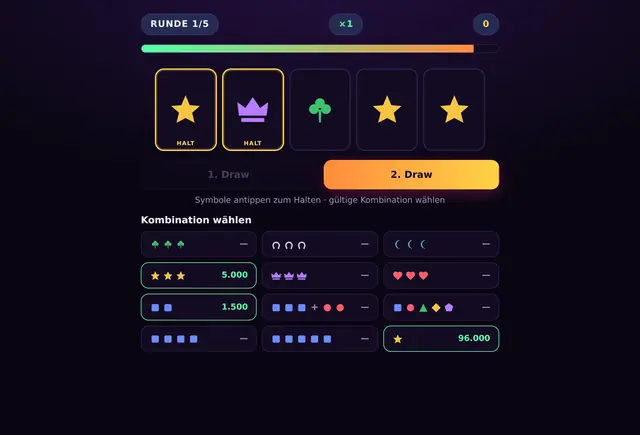
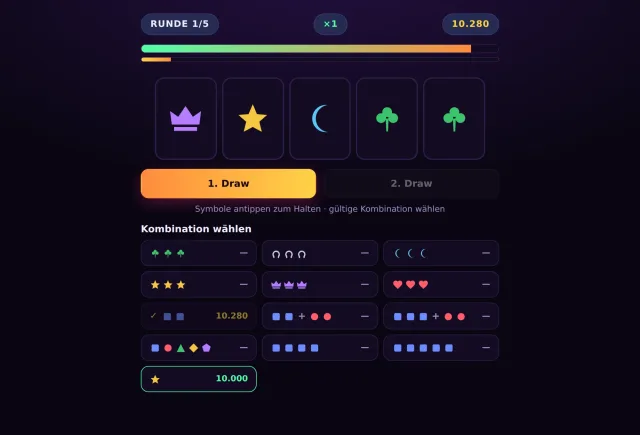
Keep: Anleitung, Bild und zwei Proben zum neuen Scoring
Das Spiel rechnet seit dem heutigen Umbau nach Seltenheit statt nach
Symbolfarbe (Einzelheiten im Commit von keep/). Was drumherum davon erzaehlt,
zog nach:

- Die Anleitung auf /spiele/ versprach das Sechzigfache fuer fuenf Herzen und
  einen Multiplikator bis zum Fuenffachen. Beides gibt es nicht mehr; statt
  dessen stehen dort die Glut und die Zusage, dass die Farbe nur einen kleinen
  Zuschlag gibt.
- Das Kachelbild zeigte die alte Punktetafel. aufnehmen.mjs wertet fuer Keep
  jetzt eine Kombination, bevor es abdrueckt - sonst steht der Glutbalken auf
  null und das Bild zeigt genau die Mechanik nicht, um die sich das Spiel
  dreht.
- pruefe-keep-punkte.mjs rechnet die Tafel ohne Dienst nach: jeder Grundwert
  mal jedes Symbol, die Rangfolge (keine haeufige Kombination darf eine
  seltenere schlagen, auch nicht mit Zuschlag und Multiplikator), Joker nie
  die beste Wahl, und die Glutstufen.
- pruefe-keep-glut.mjs spielt im Browser gegen eine eigene Fassung auf Port
  8106. Das ist noetig, weil `deno check` in reinem JS einen vergessenen Namen
  durchlaesst (CLAUDE.md, Falle 4) und renderGlut/setGlut/refreshPreise erst
  beim Klicken gerufen werden. Geprueft wird dabei auch die Zusage an den
  Spieler: eine gewertete Kachel behaelt ihre Zahl, auch wenn die Glutstufe
  darunter wegfaellt.

diff --git a/spiele/index.html b/spiele/index.html
@@ -685,8 +685,9 @@ footer a { color: inherit; }
         <li>Raum aufmachen, Link weitergeben – zu zweit bis zu viert. Allein geht auch: der Startknopf wartet nicht auf jemanden.</li>
         <li>Fünf Runden, und jede ist kürzer als die davor: von 90 Sekunden herunter auf 25.</li>
         <li>Die Walze dreht von allein. Danach darfst du zweimal nachziehen und dazwischen entscheiden, welche Symbole liegen bleiben.</li>
-        <li>Aus dem, was steht, eine gültige Kombination wählen. Je seltener, desto mehr Punkte – fünf gleiche Herzen bringen das Sechzigfache eines Kleeblatt-Drillings.</li>
-        <li>Jede gewertete Kombination in Folge hebt den Multiplikator bis auf das Fünffache. Findest du nichts mehr, ist die Runde vorbei und die Serie weg.</li>
+        <li>Aus dem, was steht, eine gültige Kombination wählen. Die Punkte hängen daran, wie selten sie ist – ein Fünfling zahlt das Zwanzigfache eines Drillings, und zwar in jeder Farbe. Das Symbol gibt nur einen kleinen Zuschlag: Herz vier Prozent, Kleeblatt zwei Promille.</li>
+        <li>Unter der Uhr glüht ein zweiter Balken. Er fällt ständig und wird von jeder Kombination aufgeladen, von seltenen stärker – ein Fünfling füllt ihn ganz. Je heißer er steht, desto größer der Multiplikator, bis auf das Doppelte.</li>
+        <li>Wer schnell spielt, hält ihn oben: ein zügiger Zug kostet weniger Glut, als ein Drilling einbringt. Findest du nichts mehr, ist die Runde vorbei.</li>
     </template>
   </article>
 

diff --git a/doku/pruefen.md b/doku/pruefen.md
@@ -37,6 +37,7 @@ node pruefe-cardchaos-tippen.mjs  # Karten mit dem Finger, schnell hintereinande
 node pruefe-cardchaos-ende.mjs    # Wartebildschirm: Fahne ruhig, Muenze vor dem Gewinn
 node pruefe-cardchaos-ablage.mjs  # Jubelmeldungen ueber der Pyramide, nie auf den Karten
 node pruefe-cardchaos-bestenliste.mjs  # eine Liste statt zwei: Woche/Ewig x 3/5/10 Runden
+node pruefe-keep-glut.mjs      # Keep: Glutbalken, Multiplikator, feste Zahlen (eigene Fassung, Port 8106)
 ```
 
 Eine eigene Fassung braucht nur diese hier – sie verbraucht Raeume und Zuege:
@@ -55,6 +56,7 @@ node werkzeug/grenzprobe.mjs       # Abschnitt G: die Bremse und was der Client 
 node werkzeug/pruefe-seconds.mjs   # ganze Partie Seconds
 node werkzeug/pruefe-cardchaos.mjs # ganze Partie Card Chaos
 node werkzeug/pruefe-keep.mjs      # ganze Partie Keep
+node werkzeug/pruefe-keep-punkte.mjs  # Keep: Punktetafel, Rangfolge, Glut (ohne Dienst)
 node werkzeug/pruefe-solo.mjs      # Keep, Card Chaos und Snake starten allein
 ```
 
